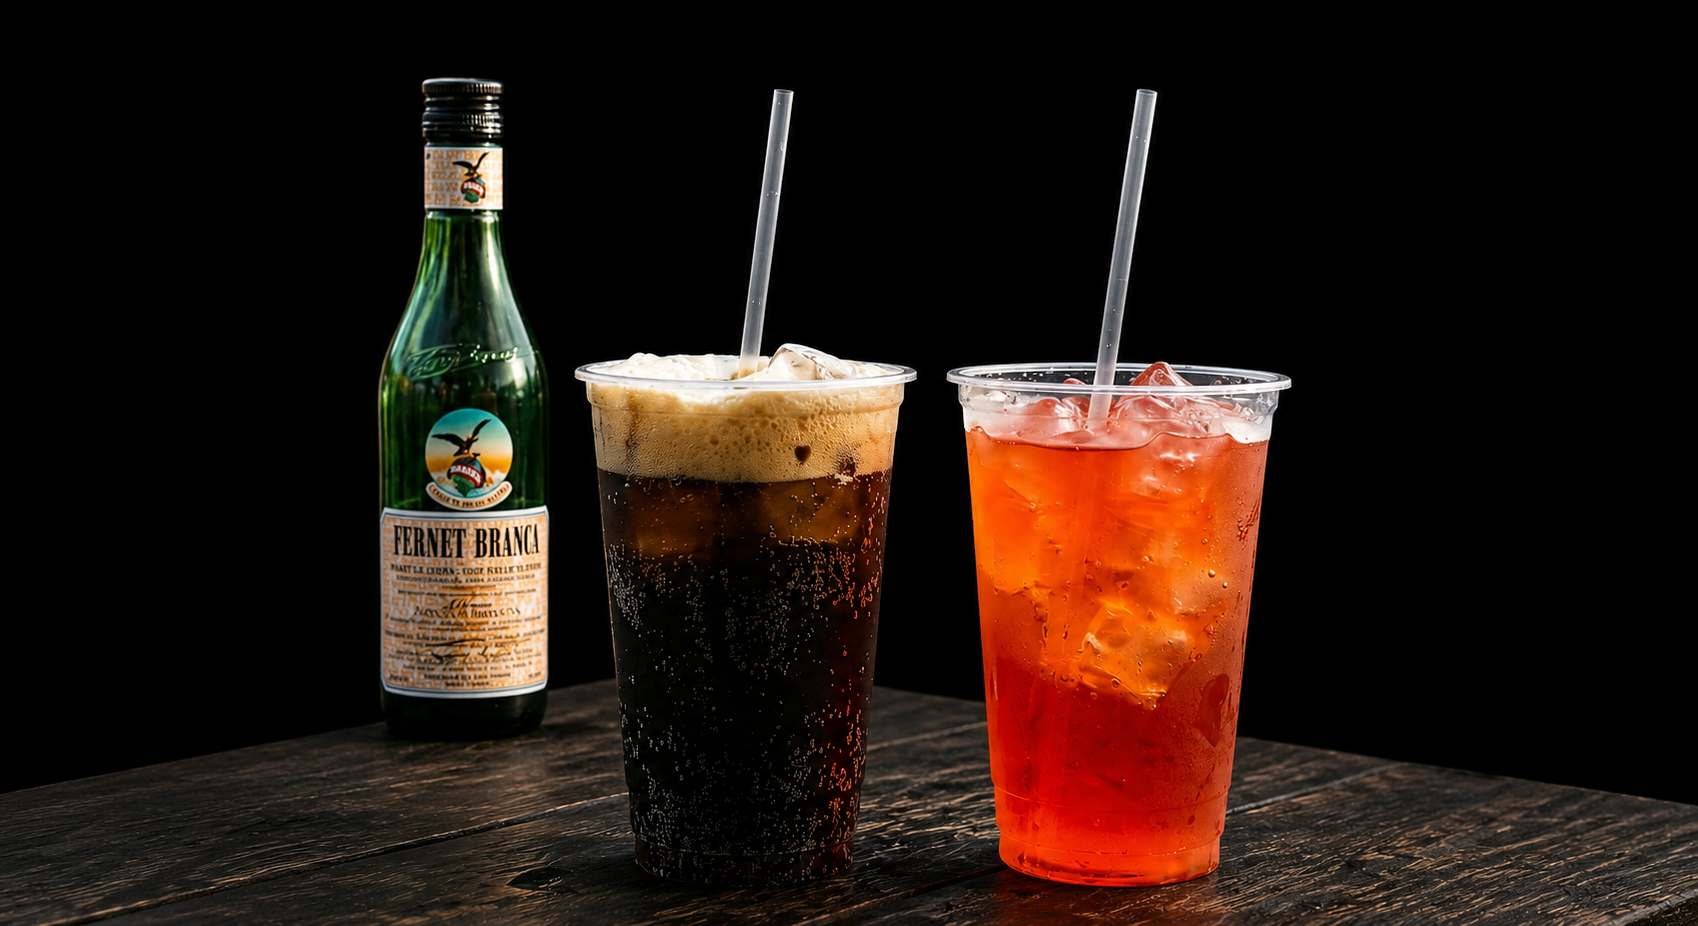
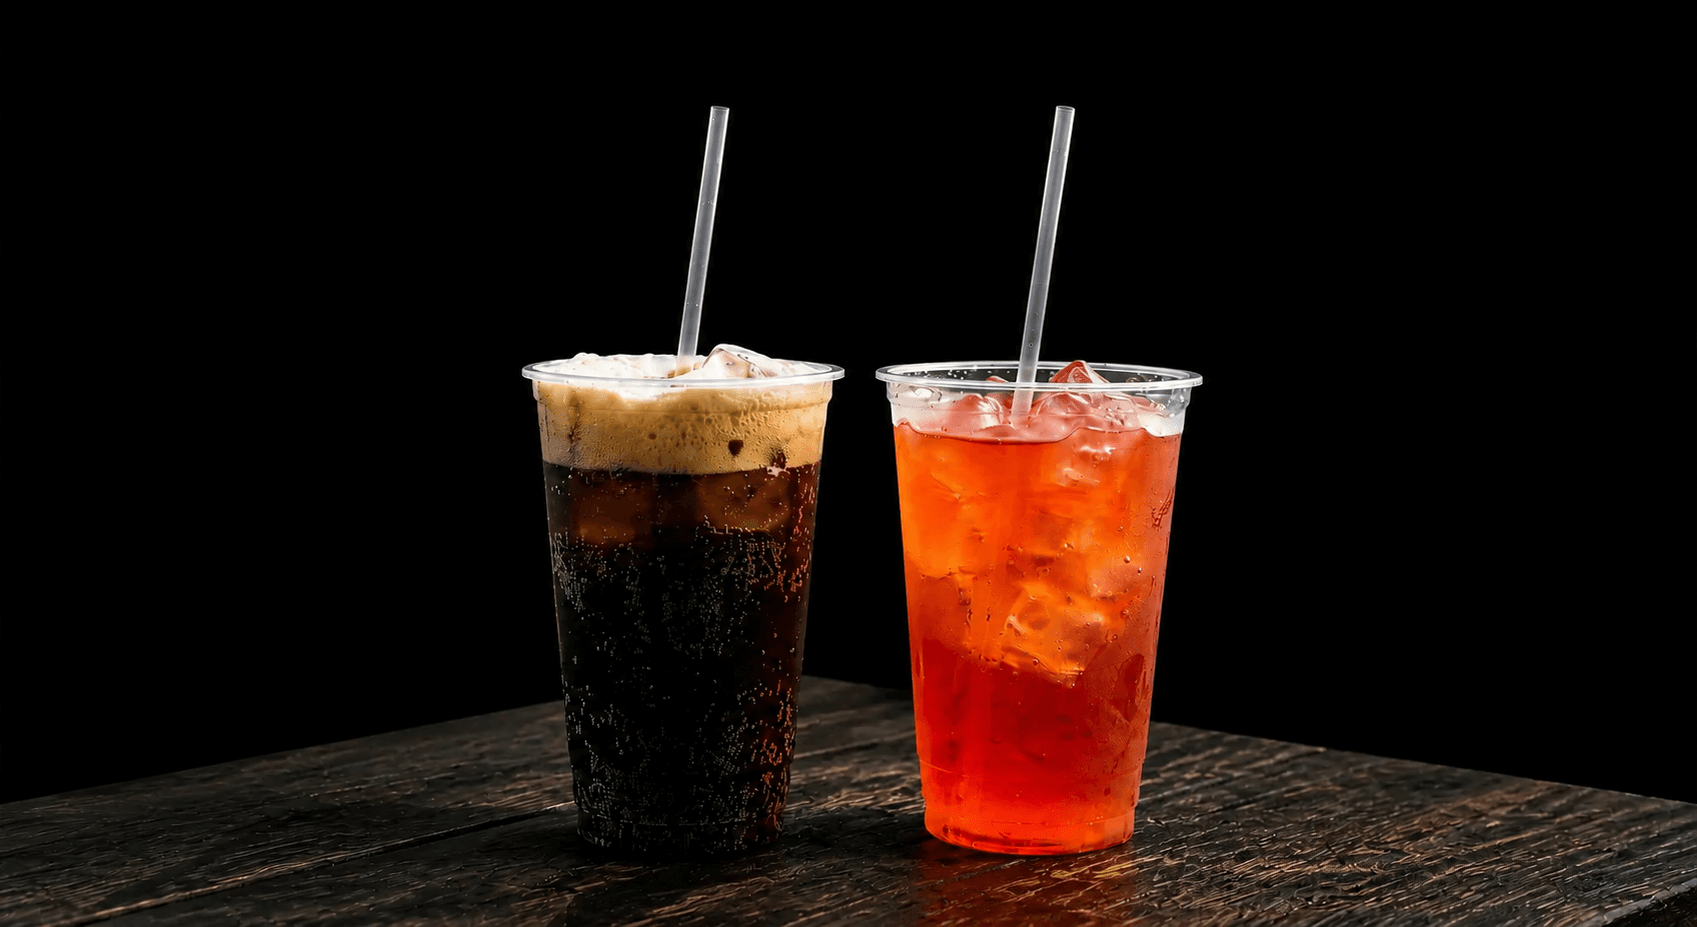
Optimiza cards mobile, actualiza assets PNG y limpia referencias

Changed region(s): [[0.0, 0.0605, 1.0, 1.0], [0.0, 0.9978, 0.0312, 1.0]]

diff --git a/styles.css b/styles.css
@@ -26,7 +26,7 @@ body {
   background-color: var(--bg);
   color: var(--text);
   font-family: "Montserrat", sans-serif;
-  padding: 20px 14px 36px;
+  padding: 20px 14px 0;
   position: relative;
   overflow-x: hidden;
 }
@@ -135,6 +135,8 @@ body::after {
   color: inherit;
   text-decoration: none;
   line-height: 1.2;
+  margin-top: 10px;
+  margin-bottom: 10px;
   transition: color 0.2s ease;
 }
 
@@ -590,8 +592,8 @@ body.reveal-enabled .category-card.is-visible .item-list li:nth-child(9) {
 }
 
 .image-placeholder {
-  aspect-ratio: 4 / 3;
   width: 100%;
+  height: clamp(180px, 28vw, 240px);
   display: grid;
   place-items: center;
   border-bottom: 1px dashed #343434;
@@ -610,11 +612,18 @@ body.reveal-enabled .category-card.is-visible .item-list li:nth-child(9) {
 
 .category-image {
   width: 100%;
-  aspect-ratio: 4 / 3;
+  height: clamp(180px, 28vw, 240px);
   object-fit: cover;
   display: block;
+  opacity: 0.72;
+  filter: blur(5px) saturate(0.92);
   transform: scale(1);
-  transition: transform 0.35s ease;
+  transition: transform 0.55s ease, opacity 0.55s ease, filter 0.55s ease;
+}
+
+.category-image.is-loaded {
+  opacity: 1;
+  filter: blur(0) saturate(1);
 }
 
 .category-image--cervezas {
@@ -724,7 +733,7 @@ body.reveal-enabled .category-card.is-visible .item-list li:nth-child(9) {
 
 @media (max-width: 619px) {
   body {
-    padding: 16px 12px 28px;
+    padding: 16px 12px 0;
   }
 
   body::before {
@@ -764,15 +773,16 @@ body.reveal-enabled .category-card.is-visible .item-list li:nth-child(9) {
   }
 
   body.reveal-enabled .category-card {
-    transform: translate3d(0, 14px, 0);
+    transform: translate3d(0, 20px, 0) scale(0.985);
   }
 
   body.reveal-enabled .category-card.is-visible {
-    animation-duration: 0.55s;
+    animation-duration: 0.9s;
+    animation-timing-function: cubic-bezier(0.2, 0.75, 0.2, 1);
   }
 
   body.reveal-enabled .category-card.is-visible .item-list li {
-    animation-duration: 0.38s;
+    animation-duration: 0.62s;
   }
 
   .category-card:hover {
@@ -781,7 +791,7 @@ body.reveal-enabled .category-card.is-visible .item-list li:nth-child(9) {
   }
 
   .category-image {
-    transition: none;
+    transition: transform 0.6s ease, opacity 0.6s ease, filter 0.6s ease;
   }
 
   .category-image--cervezas {
@@ -848,7 +858,7 @@ body.reveal-enabled .category-card.is-visible .item-list li:nth-child(9) {
 
 @media (min-width: 620px) {
   body {
-    padding: 28px 18px 40px;
+    padding: 28px 18px 0;
   }
 
   .menu__header {

diff --git a/main.js b/main.js
@@ -2,7 +2,13 @@
   const images = Array.from(document.querySelectorAll(".category-image"));
 
   images.forEach((img) => {
+    if (img.complete && img.naturalWidth > 0) {
+      img.classList.add("is-loaded");
+      img.classList.remove("image-placeholder");
+    }
+
     img.addEventListener("load", () => {
+      img.classList.add("is-loaded");
       img.classList.remove("image-placeholder");
     });
 
@@ -11,18 +17,6 @@
         img.dataset.retryAttempted = "true";
         const separator = img.src.includes("?") ? "&" : "?";
         img.src = `${img.currentSrc || img.src}${separator}retry=${Date.now()}`;
-        return;
-      }
-
-      if (img.dataset.fallbackUsed === "true") {
-        img.classList.add("image-placeholder");
-        return;
-      }
-
-      const fallbackSrc = img.dataset.fallbackSrc;
-      if (fallbackSrc) {
-        img.dataset.fallbackUsed = "true";
-        img.src = fallbackSrc;
         return;
       }
 
@@ -46,6 +40,8 @@
     return;
   }
 
+  const isMobile = window.matchMedia("(max-width: 619px)").matches;
+
   const observer = new IntersectionObserver(
     (entries) => {
       entries.forEach((entry) => {
@@ -57,8 +53,8 @@
     },
     {
       root: null,
-      threshold: 0.18,
-      rootMargin: "0px 0px -8% 0px",
+      threshold: isMobile ? 0.08 : 0.18,
+      rootMargin: isMobile ? "0px 0px -2% 0px" : "0px 0px -8% 0px",
     }
   );
 

diff --git a/index.html b/index.html
@@ -3,7 +3,7 @@
 <head>
   <meta charset="UTF-8" />
   <meta name="viewport" content="width=device-width, initial-scale=1.0" />
-  <title>La Previa by Rooster Craft Beer</title>
+  <title>Carta Tragos - Rooster Craft Beer</title>
   <link rel="icon" type="image/png" href="images/logo.png" />
   <link rel="preconnect" href="https://fonts.googleapis.com" />
   <link rel="preconnect" href="https://fonts.gstatic.com" crossorigin />
@@ -15,7 +15,7 @@
   <div class="party-confetti" aria-hidden="true"></div>
   <main class="menu">
     <header class="menu__header">
-      <img class="menu__logo" src="images/logo.png" alt="Logo DJ's" loading="eager" decoding="async" fetchpriority="high" />
+      <img class="menu__logo" src="images/logo.png" alt="Logo DJ's" loading="eager" decoding="async" fetchpriority="high" width="2406" height="2385" />
       <h1>Menú</h1>
       <p class="event-title">
         <span class="animated-text event-title--primary">VIBRANCE MUSIC</span>
@@ -26,7 +26,7 @@
 
     <section class="categories" aria-label="Categorías del menú">
       <article class="category-card">
-        <img class="category-image category-image--cervezas" src="images/cervezas.webp" data-fallback-src="images/cervezas.png" alt="Cervezas" loading="lazy" decoding="async" fetchpriority="low" />
+        <img class="category-image category-image--cervezas" src="images/cervezas.png" alt="Cervezas" loading="lazy" decoding="async" fetchpriority="low" width="1672" height="941" />
         <h2>Cervezas</h2>
         <ul class="item-list" aria-label="Lista de cervezas">
           <li><span>Ipa Sanfer</span><strong>$7.500</strong></li>
@@ -38,7 +38,7 @@
       </article>
 
       <article class="category-card">
-        <img class="category-image category-image--tragos" src="images/tragos.jpg" alt="Tragos" loading="lazy" decoding="async" fetchpriority="low" />
+        <img class="category-image category-image--tragos" src="images/tragos.png" alt="Tragos" loading="lazy" decoding="async" fetchpriority="low" width="1448" height="1086" />
         <h2>Tragos</h2>
         <ul class="item-list" aria-label="Lista de tragos">
           <li class="item-with-note">
@@ -60,7 +60,7 @@
       </article>
 
       <article class="category-card">
-        <img class="category-image category-image--tragos-litro" src="images/tragos1litro.webp" data-fallback-src="images/tragos1litro.png" alt="Tragos 1 Litro" loading="lazy" decoding="async" fetchpriority="low" />
+        <img class="category-image category-image--tragos-litro" src="images/tragos1litro.png" alt="Tragos 1 Litro" loading="lazy" decoding="async" fetchpriority="low" width="1697" height="927" />
         <h2>Tragos 1 Litro</h2>
         <ul class="item-list" aria-label="Lista de tragos 1 litro">
           <li><span>Fernet 1 Litro</span><strong>$14.500</strong></li>
@@ -71,7 +71,7 @@
       </article>
 
       <article class="category-card">
-        <img class="category-image category-image--botellas" src="images/botellas.webp" data-fallback-src="images/botellas.png" alt="Botellas" loading="lazy" decoding="async" fetchpriority="low" />
+        <img class="category-image category-image--botellas" src="images/botellas.png" alt="Botellas" loading="lazy" decoding="async" fetchpriority="low" width="1672" height="941" />
         <h2>Botellas</h2>
         <ul class="item-list" aria-label="Lista de botellas">
           <li><span>Botella Red label con 3 Speed</span><strong>$150.000</strong></li>
@@ -81,7 +81,7 @@
       </article>
 
       <article class="category-card">
-        <img class="category-image category-image--vinos" src="images/varios.webp" data-fallback-src="images/varios.png" alt="Vinos" loading="lazy" decoding="async" fetchpriority="low" />
+        <img class="category-image category-image--vinos" src="images/vinos.png" alt="Vinos" loading="lazy" decoding="async" fetchpriority="low" width="1023" height="1537" />
         <h2>Vinos</h2>
         <ul class="item-list" aria-label="Lista de vinos">
           <li><span>Vermu Tirado</span><strong>$5.500</strong></li>
@@ -91,7 +91,7 @@
       </article>
 
       <article class="category-card">
-        <img class="category-image category-image--sin-alcohol" src="images/sinalcohol.jpg" alt="Bebidas sin alcohol" loading="lazy" decoding="async" fetchpriority="low" />
+        <img class="category-image category-image--sin-alcohol" src="images/sinalcohol.png" alt="Bebidas sin alcohol" loading="lazy" decoding="async" fetchpriority="low" width="1669" height="942" />
         <h2>Bebidas sin alcohol</h2>
         <ul class="item-list" aria-label="Lista de bebidas sin alcohol">
           <li><span>Agua 500cc</span><strong>$3.500</strong></li>